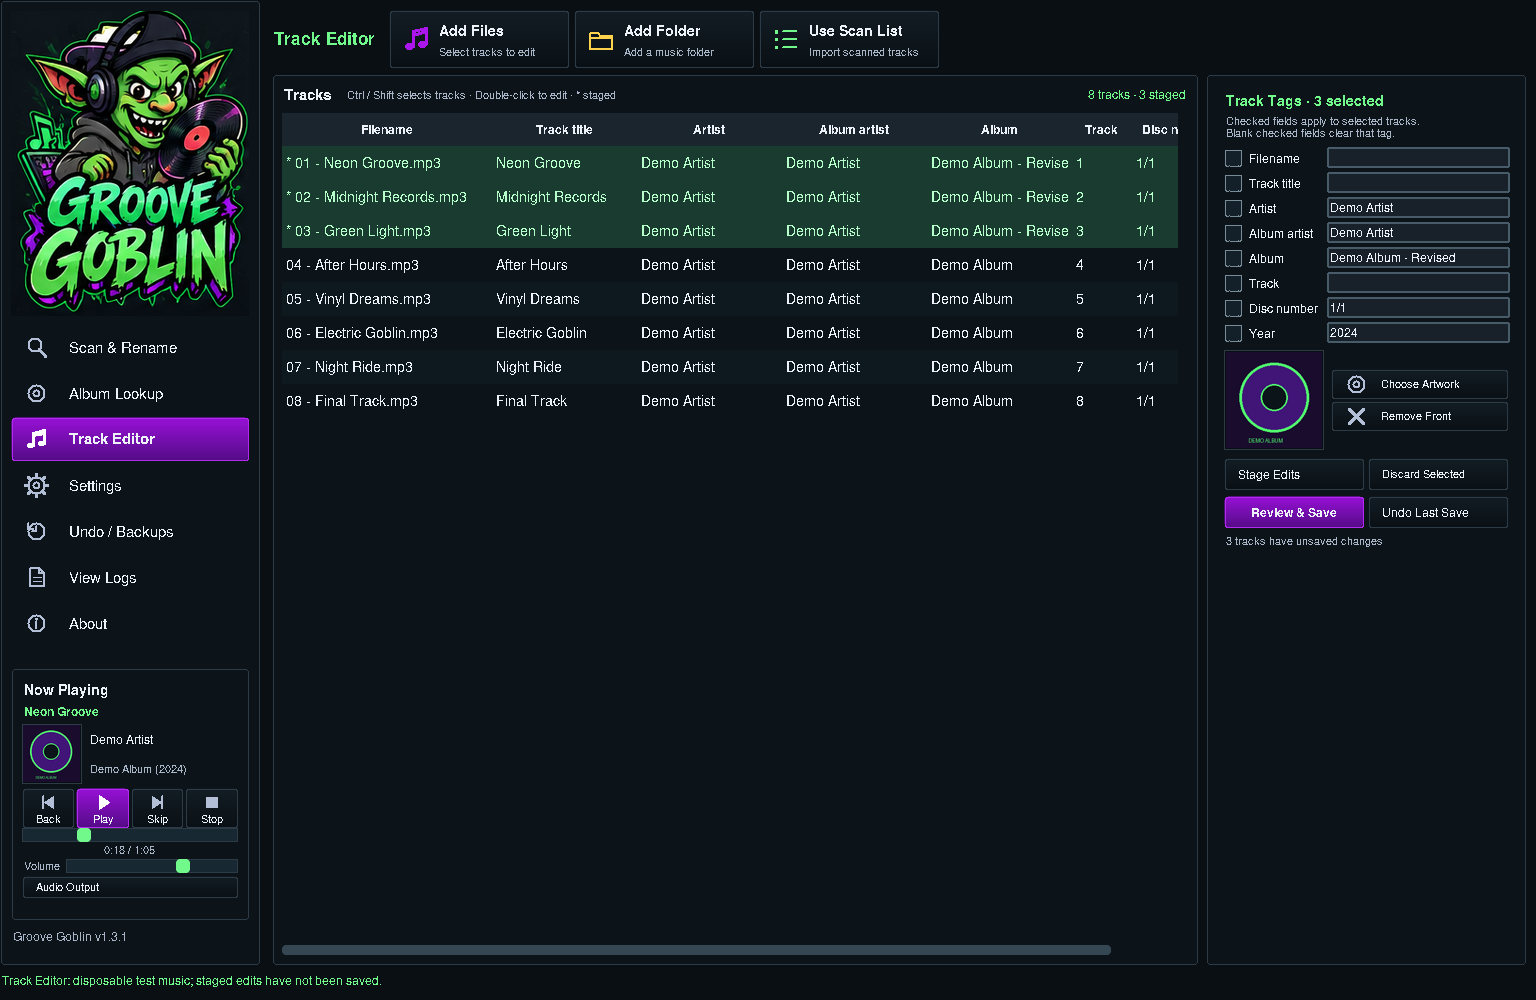
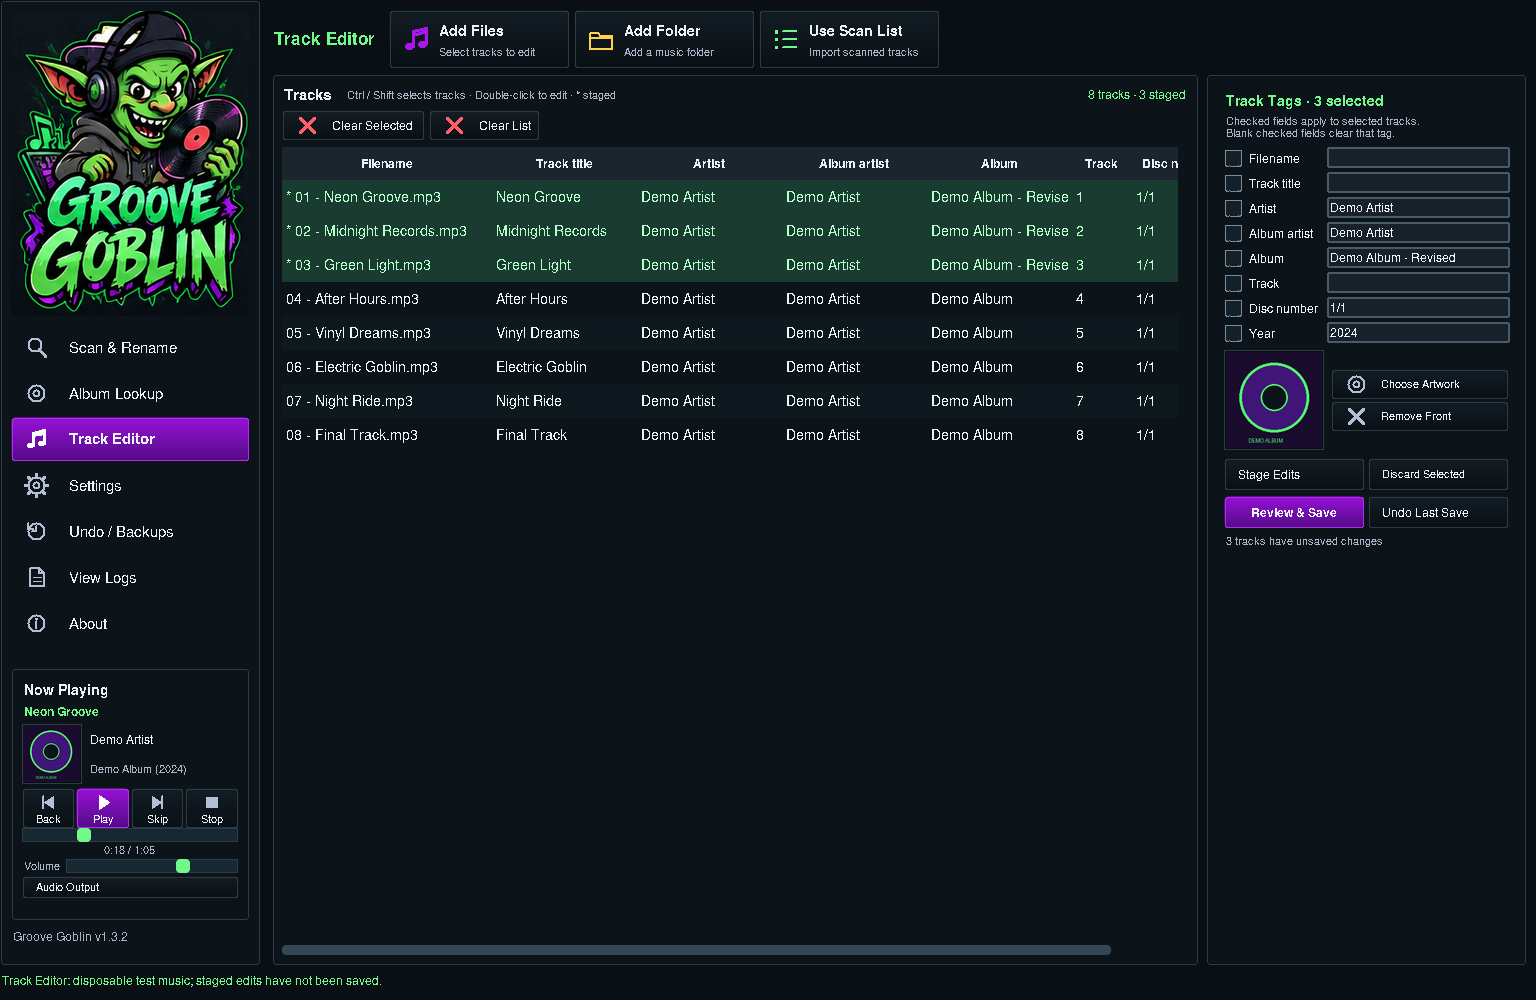
Add Clear List and Clear Selected to Track Editor

diff --git a/groove_track_editor.py b/groove_track_editor.py
@@ -23,7 +23,7 @@ LABELS={'filename':'Filename','title':'Track title','artist':'Artist','albumarti
 class TrackEditor(tk.Frame):
     def __init__(self,app):
         super().__init__(app.content,bg=BG)
-        self.app=app;self.storage_base=Path(__file__).parent;self.records={};self.pending={};self.loading=False;self.photo=None;self.cover_cache={}
+        self.app=app;self.storage_base=Path(__file__).parent;self.records={};self.pending={};self.loading=False;self.photo=None;self.cover_cache={};self.list_cleared=False
         self.player=MusicPlayer();self.seeking=False;self.timer=None;self.inline=None
         self.columnconfigure(0,weight=1);self.rowconfigure(1,weight=1)
         toolbar=tk.Frame(self,bg=BG);toolbar.grid(row=0,column=0,sticky='ew',pady=(0,6))
@@ -38,10 +38,17 @@ class TrackEditor(tk.Frame):
         listing=self.list_panel.body
         listing.rowconfigure(1,weight=1);listing.columnconfigure(0,weight=1)
         header=tk.Frame(listing,bg=PANEL);header.grid(row=0,column=0,columnspan=2,sticky='ew',pady=(0,7))
-        tk.Label(header,text='Tracks',bg=PANEL,fg=FG,font=(app.ui_font,11,'bold')).pack(side='left')
-        self.track_hint=tk.Label(header,text='Double-click to edit',bg=PANEL,fg=MUTED,font=(app.ui_font,8))
+        title_row=tk.Frame(header,bg=PANEL);title_row.pack(fill='x')
+        tk.Label(title_row,text='Tracks',bg=PANEL,fg=FG,font=(app.ui_font,11,'bold')).pack(side='left')
+        self.track_hint=tk.Label(title_row,text='Double-click to edit',bg=PANEL,fg=MUTED,font=(app.ui_font,8))
         self.track_hint.pack(side='left',padx=12)
-        self.track_count=tk.Label(header,text='0 tracks',bg=PANEL,fg=GREEN,font=(app.ui_font,9));self.track_count.pack(side='right')
+        self.track_count=tk.Label(title_row,text='0 tracks',bg=PANEL,fg=GREEN,font=(app.ui_font,9));self.track_count.pack(side='right')
+        clear_row=tk.Frame(header,bg=PANEL);clear_row.pack(fill='x',pady=(4,0))
+        self.clear_selected_button=Button(clear_row,'Clear Selected',self.clear_selected,width=142,height=30,symbol='cross',accent='#ff6068',font=(app.ui_font,9))
+        self.clear_selected_button.pack(side='left',padx=(0,5))
+        self.clear_list_button=Button(clear_row,'Clear List',self.clear_list,width=110,height=30,symbol='cross',accent='#ff6068',font=(app.ui_font,9))
+        self.clear_list_button.pack(side='left')
+        self.clear_selected_button.state(['disabled']);self.clear_list_button.state(['disabled'])
         self.tree=ttk.Treeview(listing,columns=FIELDS,show='headings',selectmode='extended',style='Editor.Treeview')
         for field in FIELDS:
             self.tree.heading(field,text=LABELS[field],command=lambda f=field:self.sort(f))
@@ -116,6 +123,9 @@ class TrackEditor(tk.Frame):
             button.configure(width=130 if compact else 180,height=42 if compact else 58)
             button.subtitle='' if compact else ['Select tracks to edit','Add a music folder','Import scanned tracks'][index]
             button.font=(self.app.ui_font,8 if compact else 10);button.draw()
+        for button in (self.clear_selected_button,self.clear_list_button):
+            button.font=(self.app.ui_font,8 if compact else 9)
+            button.configure(height=28 if compact else 30);button.draw()
         ttk.Style(self).configure('Editor.Treeview',rowheight=28 if compact else 34)
         for field in FIELDS:
             self.checks[field].configure(width=93 if compact else 105,height=20 if compact else 24)
@@ -158,7 +168,10 @@ class TrackEditor(tk.Frame):
         self.selection_changed()
 
     def selection_changed(self,event=None):
-        selected=self.selected();self.selection_label.configure(text=f'Track Tags · {len(selected)} selected' if selected else 'Track Tags')
+        selected=self.selected()
+        self.clear_selected_button.state(['!disabled'] if selected else ['disabled'])
+        self.clear_list_button.state(['!disabled'] if self.records else ['disabled'])
+        self.selection_label.configure(text=f'Track Tags · {len(selected)} selected' if selected else 'Track Tags')
         self.loading=True
         try:
             for field in FIELDS:
@@ -254,6 +267,36 @@ class TrackEditor(tk.Frame):
         for path in self.selected():self.pending.pop(path,None)
         self.refresh()
 
+    def clear_selected(self):
+        self.remove_tracks(self.selected())
+
+    def clear_list(self):
+        self.remove_tracks(list(self.records),clear_all=True)
+
+    def remove_tracks(self,paths,*,clear_all=False):
+        """Remove editor rows only; source files and the organizer stay intact."""
+        if not self.check_idle():return
+        removed=set(paths)&self.records.keys()
+        if not removed:return
+        if any(path in self.pending for path in removed) or self.inline:
+            prompt=f'Remove {len(removed)} tracks from the editor and discard their staged edits?'
+            if self.inline:prompt+=' Any open unsaved cell edit will also be discarded.'
+            prompt+=' Your music files will stay unchanged.'
+            if not messagebox.askyesno('Clear tracks',prompt,parent=self.app):return
+        if self.inline:self.inline.destroy();self.inline=None
+        current=self.player.current
+        stop=clear_all or (current is not None and current['path'] in removed)
+        if stop:self.player.stop()
+        self.player.playlist=[] if clear_all else [record for record in self.player.playlist if record['path'] not in removed]
+        self.player.index=next((i for i,record in enumerate(self.player.playlist) if record is current),-1) if not stop else -1
+        for path in removed:self.records.pop(path,None);self.pending.pop(path,None)
+        self.cover_cache={key:art for key,art in self.cover_cache.items() if key[0] not in removed}
+        if not self.records:self.list_cleared=True
+        self.refresh();self.update_player_details();self.update_player_art()
+        if stop:
+            self.progress.set(0);self.time.configure(text='0:00 / 0:00')
+        self.app.status.set(f'Track Editor: cleared {len(removed)} tracks · {len(self.records)} remaining')
+
     def add_files(self):
         if not self.check_idle():return
         paths=filedialog.askopenfilenames(title='Add tracks to Track Editor',filetypes=[('Music',FILE_PATTERN)])
@@ -314,6 +357,7 @@ class TrackEditor(tk.Frame):
 
     def handle_event(self,kind,*args):
         if kind=='manual_loaded':
+            if args[0]:self.list_cleared=False
             for path,record in args[0].items():
                 if path not in self.pending:self.records[path]=record
             for error in args[1]:self.app.log('TRACK EDITOR: '+error)

diff --git a/tests/test_track_editor.py b/tests/test_track_editor.py
@@ -61,6 +61,65 @@ class TrackEditorTests(unittest.TestCase):
             self.app.update();time.sleep(.02)
         self.app.update();self.assertFalse(self.app.worker_busy)
 
+    def test_clear_selected_across_albums_preserves_other_tracks_edits_and_playback(self):
+        e=self.editor;a=self.app
+        extra=self.f.add_mp3('Other Album','third.mp3','Third')
+        e.records[str(extra)]=read_track(extra);e.refresh()
+        first,second=map(str,self.paths);third=str(extra)
+        before={p:hashlib.sha256(p.read_bytes()).digest() for p in (*self.paths,extra)}
+        e.pending[second]={'title':'Keep this edit'}
+        e.player.playlist=list(e.records.values());e.player.index=1
+        current=e.player.current
+        e.tree.selection_set([first,third]);a.update()
+        with patch.object(e.player,'stop') as stop:
+            e.clear_selected_button.invoke();stop.assert_not_called()
+        self.assertEqual(list(e.records),[second]);self.assertEqual(e.pending,{second:{'title':'Keep this edit'}})
+        self.assertIs(e.player.current,current);self.assertEqual(e.player.index,0)
+        self.assertEqual(e.tree.get_children(),(second,))
+        self.assertTrue(e.clear_selected_button.disabled)
+        for path,hashed in before.items():self.assertEqual(hashlib.sha256(path.read_bytes()).digest(),hashed)
+
+    def test_clear_list_cancel_busy_and_navigation_do_not_reload_cleared_tracks(self):
+        from groove_core import scan_folders
+        e=self.editor;a=self.app
+        a.matched,_=scan_folders([self.paths[0].parent]);a.album_map={album.uid:album for album in a.matched}
+        a.roots=[str(self.paths[0].parent)];matches=list(a.matched);roots=list(a.roots)
+        before={p:hashlib.sha256(p.read_bytes()).digest() for p in self.paths}
+        e.pending[str(self.paths[0])]={'title':'Unsaved'}
+        with patch('groove_track_editor.messagebox.askyesno',return_value=False):
+            e.clear_list_button.invoke()
+        self.assertEqual(len(e.records),2);self.assertTrue(e.pending)
+        a.worker_busy=True
+        with patch('groove_track_editor.messagebox.showinfo') as info:
+            e.clear_list();info.assert_called_once()
+        a.worker_busy=False;self.assertEqual(len(e.records),2)
+        e.player.playlist=list(e.records.values());e.player.index=0
+        with patch('groove_track_editor.messagebox.askyesno',return_value=True),patch.object(e.player,'stop') as stop:
+            e.clear_list_button.invoke();stop.assert_called_once()
+        self.assertFalse(e.records);self.assertFalse(e.pending);self.assertFalse(e.tree.get_children())
+        self.assertIsNone(e.player.current);self.assertFalse(e.player.playlist)
+        self.assertTrue(e.clear_list_button.disabled)
+        self.assertEqual(a.matched,matches);self.assertEqual(a.roots,roots)
+        with patch.object(e,'import_scan') as importing:
+            a.tabs.select(a.tab_albums);a.tabs.select(e);a.update();importing.assert_not_called()
+        self.assertFalse(e.records)
+        e.add_paths([str(self.paths[0])]);self.wait()
+        self.assertEqual(set(e.records),{str(self.paths[0])});self.assertFalse(e.list_cleared)
+        for path,hashed in before.items():self.assertEqual(hashlib.sha256(path.read_bytes()).digest(),hashed)
+
+    def test_clear_current_track_stops_playback_and_cancels_inline_editor(self):
+        e=self.editor;a=self.app;first,second=map(str,self.paths)
+        e.player.playlist=list(e.records.values());e.player.index=0
+        e.tree.selection_set(first);a.update()
+        bounds=e.tree.bbox(first,'#2');self.assertTrue(bounds)
+        from types import SimpleNamespace
+        e.begin_inline(SimpleNamespace(x=bounds[0]+4,y=bounds[1]+4))
+        self.assertIsNotNone(e.inline)
+        with patch('groove_track_editor.messagebox.askyesno',return_value=True),patch.object(e.player,'stop') as stop:
+            e.clear_selected_button.invoke();stop.assert_called_once()
+        self.assertIsNone(e.inline);self.assertIsNone(e.player.current)
+        self.assertEqual(list(e.records),[second]);self.assertEqual([r['path'] for r in e.player.playlist],[second])
+
     def test_batch_and_individual_edits_artwork_save_and_undo(self):
         e=self.editor;before={p:hashlib.sha256(p.read_bytes()).digest() for p in self.paths}
         e.tree.selection_set([str(p) for p in self.paths]);e.selection_changed()
@@ -270,7 +329,7 @@ class TrackEditorTests(unittest.TestCase):
         a=self.app;e=self.editor
         for width,height in [(800,600),(1024,768),(1536,1000),(1920,1080),(850,620)]:
             a.geometry(f'{width}x{height}');a.update();a._responsive.apply();e.resize();a.update()
-            for widget in (*e.entries.values(),e.cover,e.save_button,e.undo_button,e.stage_button,e.discard_button,e.progress,e.volume,e.audio_output_button,e.player_cover,e.now,e.player_artist,e.player_album,*e.play_buttons,*e.top_buttons):
+            for widget in (*e.entries.values(),e.cover,e.save_button,e.undo_button,e.stage_button,e.discard_button,e.clear_selected_button,e.clear_list_button,e.progress,e.volume,e.audio_output_button,e.player_cover,e.now,e.player_artist,e.player_album,*e.play_buttons,*e.top_buttons):
                 self.assertTrue(widget.winfo_ismapped(),str(widget))
                 parent=widget.master
                 x=widget.winfo_rootx();y=widget.winfo_rooty()

diff --git a/groove_layout.py b/groove_layout.py
@@ -26,7 +26,7 @@ class PageNavigation:
             button.active=name==a._active_page;button.draw()
         from types import SimpleNamespace
         a._footer_resize(SimpleNamespace(width=a._footer.winfo_width()))
-        if tracks and not a.track_editor.records and a.matched and not a.worker_busy:a.track_editor.import_scan()
+        if tracks and not a.track_editor.records and not a.track_editor.list_cleared and a.matched and not a.worker_busy:a.track_editor.import_scan()
         if page is a.tab_editor:a.album_entry.focus_set()
 
 

diff --git a/groove_version.py b/groove_version.py
@@ -1,2 +1,2 @@
 """One version string for the window, About, journals and network user agent."""
-__version__ = '1.3.1'
+__version__ = '1.3.2'

diff --git a/README.md b/README.md
@@ -1,4 +1,4 @@
-# Groove Goblin 1.3.1
+# Groove Goblin 1.3.2
 
 Windows desktop music tagger and organizer with a responsive dark Tkinter
 interface, MusicBrainz album lookup, naming presets, manual track editing,
@@ -60,6 +60,12 @@ scanned list. A drop while this screen is open scans and imports the new tracks.
   and click Stage Edits to apply those values to the selection. Only checked
   fields change. Mixed values are blank and unchecked; checking a blank field
   explicitly clears that tag. Other fields remain untouched.
+- Clear Selected removes the selected rows from Track Editor; Ctrl/Shift selects
+  tracks across albums. Clear List removes every loaded editor row. Neither
+  deletes music or clears Scan & Rename matches. Clearing tracks with staged
+  edits asks before discarding them; other tracks and their staged edits remain.
+  Removing the playing track stops playback; removing other rows keeps it playing.
+  A cleared editor stays empty across navigation until you add/import tracks again.
 - Choose Artwork selects an image from your PC for all selected tracks. Remove
   Front removes the front cover. Other embedded pictures remain untouched.
 - Staging is read-only and marked with an asterisk. Review & Save shows each
@@ -136,7 +142,7 @@ Shift+wheel scrolls the Track Editor horizontally; scrollbar dragging still work
 
 Tab navigates controls, Ctrl / Shift selects multiple editor rows, F11 enters
 fullscreen and Esc exits. Ctrl +/- adjusts organizer table text. About and the
-sidebar display version 1.3.1.
+sidebar display version 1.3.2.
 
 Screenshots were captured on a Linux virtual display with disposable generated
 audio and covers; online results are mocked. They show the running application,
@@ -160,7 +166,7 @@ organizer renames/Undo. Playback checks stream real generated MP3 and FLAC files
 through SDL's test audio device and exercise transport, seeking and volume,
 sidebar artwork/metadata and playback continuity across sections.
 
-65 tests passed on Linux/Python 3.12; two Windows-only tests were skipped.
+68 tests passed on Linux/Python 3.12; two Windows-only tests were skipped.
 Linux validation cannot establish actual Windows audio-device,
 Python 3.15 playback or 125%/150% DPI behavior. The PowerShell launcher and native
 Windows message-loop subprocess tests are skipped on Linux. The user confirmed

diff --git a/CHANGELOG.md b/CHANGELOG.md
@@ -1,5 +1,13 @@
 # Changelog
 
+## 1.3.2
+
+- Added Clear Selected and Clear List above the Track Editor table, sized for compact windows.
+- Removed only editor rows, their staged changes and playlist entries; source music and organizer matches remain intact.
+- Asked before discarding staged/inline edits and blocked clearing during active file operations.
+- Kept unaffected playback running, stopped playback when clearing the current track, and prevented automatic scan imports from refilling an explicitly cleared list.
+- Added no-write, multi-album selection, cancellation, playback and navigation regression checks.
+
 ## 1.3.1
 
 - Kept sidebar navigation labels and version visible at every supported window size; compact mode adjusts fonts/spacing instead of hiding text.

diff --git a/docs/formats.md b/docs/formats.md
@@ -1,4 +1,4 @@
-# Audio formats in Groove Goblin 1.3.1
+# Audio formats in Groove Goblin 1.3.2
 
 Add Files, folder scans, Explorer drops, Track Editor and cover previews share
 one format list. A filename extension is checked against the actual container;
